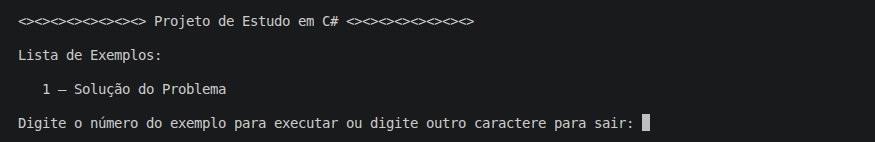
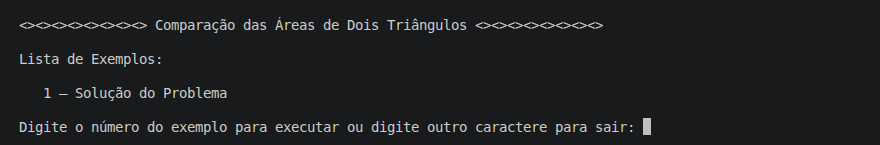
docs: adiciona descricao e screenshots da versao 0.0.1

diff --git a/Project/README.md b/Project/README.md
@@ -32,14 +32,21 @@ area = RaizQ(p * (p - a) * (p - b) * (p - c))
 
 # Detalhes Gerais
 
-- **Versão:** < `número da versão` >
-- **Conceito aplicado:** < `nome do conceito` >
+- **Versão:** 0.0.1
+- **Conceito aplicado:** Solução Procedural
 
 # Descrição da Versão
 
 ```bash
 
-< descrição resumida da versão >
+Primeira resolucao funcional do problema
+em abordagem procedural.
+
+A solucao realiza a leitura dos lados de
+dois triangulos, calcula as areas pela
+formula de Heron e informa qual possui a
+maior area, mantendo a estrutura base do
+template ja existente no projeto.
 
 ```
 
